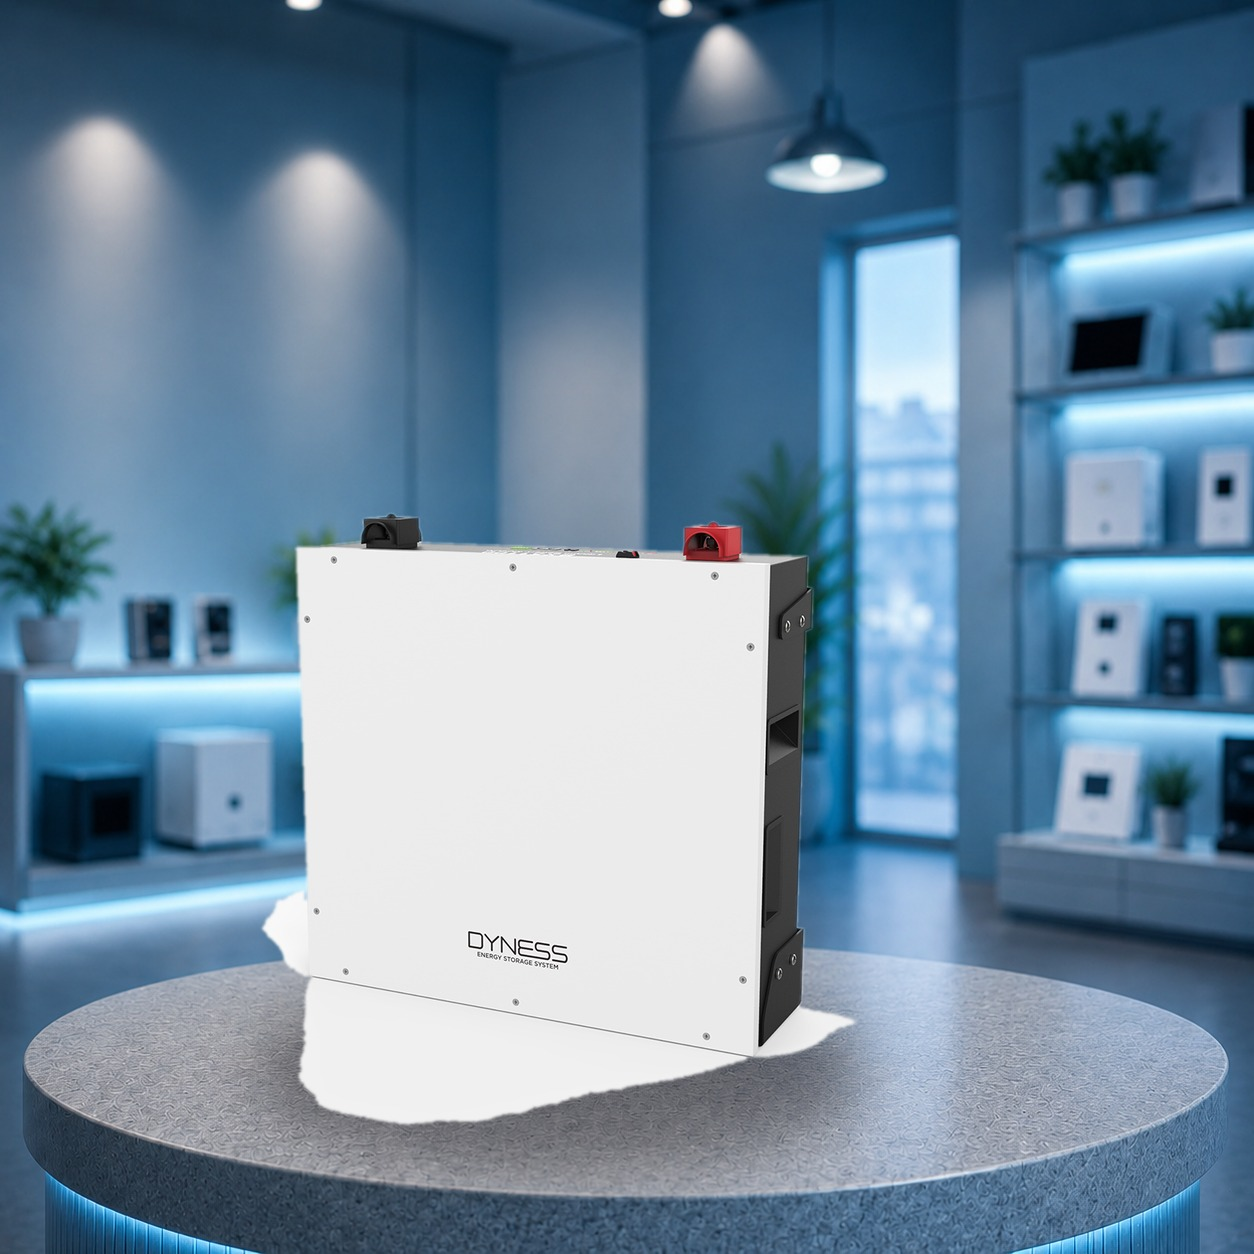
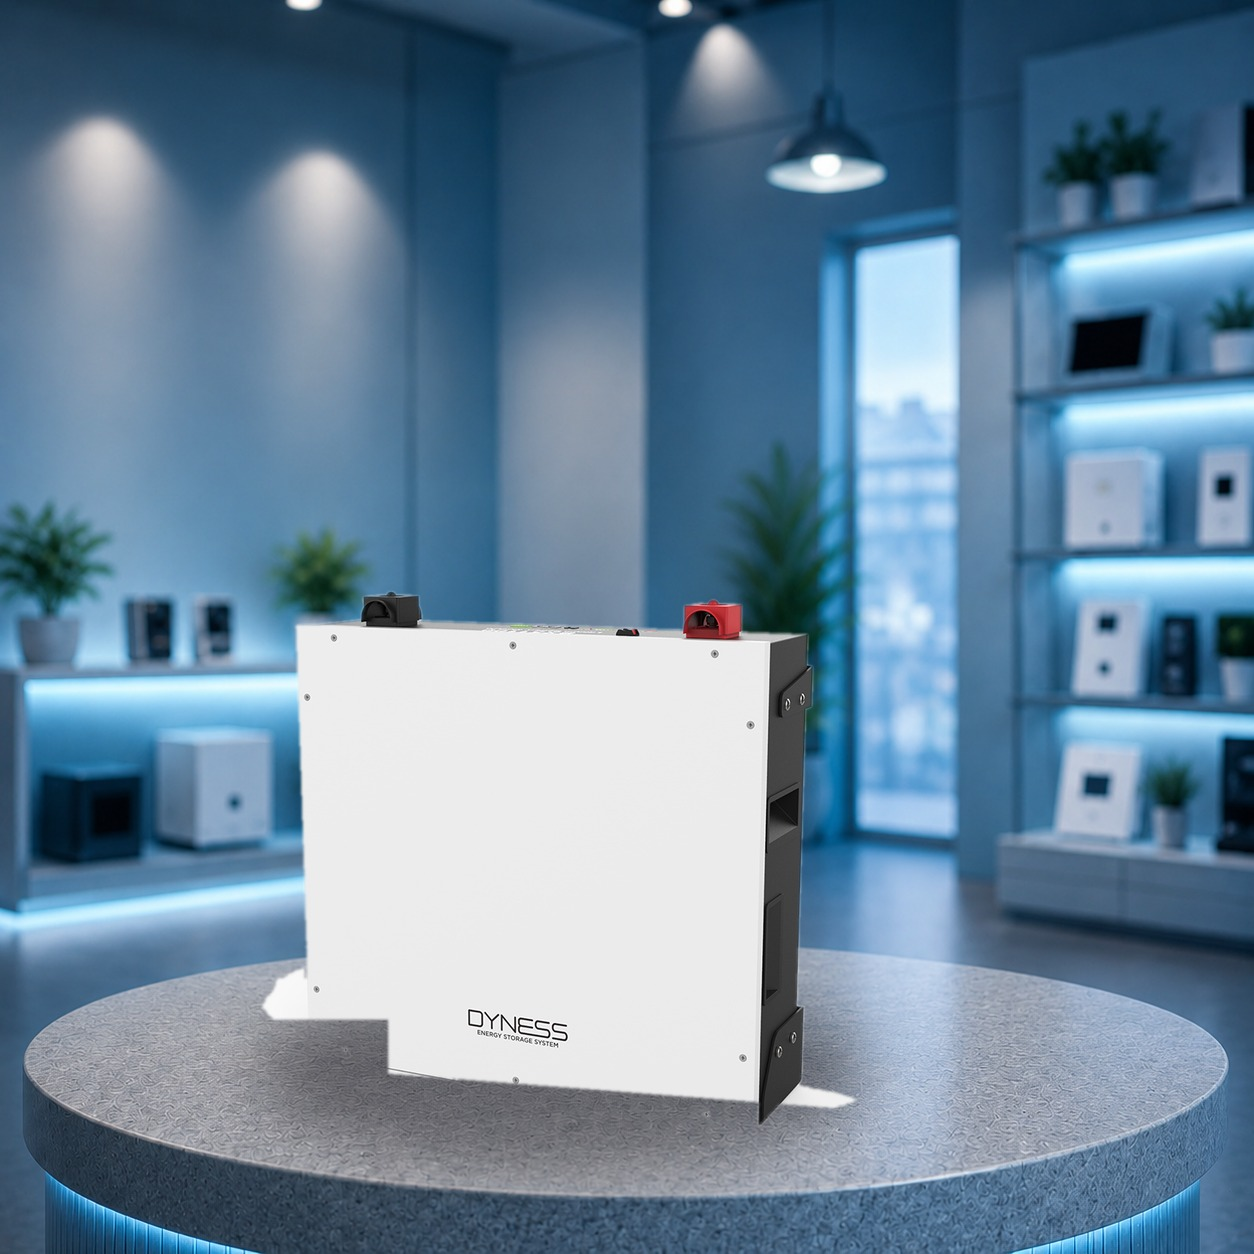
fix: reduce lightbox zoom to 160%, clean up Dyness BX51100 shadow smudge
- Lightbox click-to-zoom was jumping to 280%, way too aggressive; dialed
  back to 160%.
- 150590's shadow blended into the white background with no detectable
  edge for flood-fill to key off, leaving a bright leftover patch under
  the product. Added a hand-tuned cleanup pass (SHADOW_CLEANUP) that
  knocks out bright pixels below the product's real (but visually
  indistinct) bottom edge -- fixes this photo without affecting the
  general pipeline.

Changed region(s): [[0.1866, 0.4043, 0.6842, 0.9019], [0.3732, 0.7464, 0.4665, 0.7775]]

diff --git a/assets/css/style.css b/assets/css/style.css
@@ -1129,7 +1129,7 @@ main { flex: 1; }
 .photo-lightbox__img.is-zoomed {
   max-width: none;
   max-height: none;
-  width: 280%;
+  width: 160%;
   cursor: zoom-out;
 }
 .photo-lightbox__close {

diff --git a/scripts/place_product_on_background.py b/scripts/place_product_on_background.py
@@ -105,7 +105,37 @@ CATEGORY_TO_PROFILE = {
 }
 
 
-def cutout_product(path_or_image, thresh=15):
+# Some photos have a drop shadow that blends into the white background so
+# gradually there's no detectable edge for flood-fill to key off (shadow and
+# panel brightness overlap). For those, hand-drawn cleanup: a diagonal line
+# (x0, y0, x1, y1) marking the object's true bottom edge -- any pixel below
+# it (or inside the optional extra corner box) that's still bright gets
+# knocked out of the mask, regardless of flood-fill threshold. All values
+# are pixel coordinates in the ORIGINAL (uncropped) source photo.
+SHADOW_CLEANUP = {
+    "150590": dict(line=(129, 699, 779, 749), corner_box=(0, 640, 240, 900)),
+}
+
+
+def _apply_shadow_cleanup(img, mask, cleanup):
+    w, h = img.size
+    px = img.load()
+    mpx = mask.load()
+    x0, y0, x1, y1 = cleanup["line"]
+    slope = (y1 - y0) / (x1 - x0)
+    cx0, cy0, cx1, cy1 = cleanup.get("corner_box", (0, 0, 0, 0))
+    top = min(y0, y1, cy0)
+    for y in range(max(0, int(top)), h):
+        for x in range(0, w):
+            below_line = y > y0 + slope * (x - x0)
+            in_corner = cx0 <= x < cx1 and cy0 <= y < cy1
+            if below_line or in_corner:
+                r, g, b = px[x, y]
+                if (r + g + b) / 3 > 200:
+                    mpx[x, y] = 0
+
+
+def cutout_product(path_or_image, thresh=15, shadow_cleanup=None):
     """Return an RGBA cutout tightly cropped to the non-background pixels."""
     if isinstance(path_or_image, Image.Image):
         img = path_or_image.convert("RGB")
@@ -124,6 +154,10 @@ def cutout_product(path_or_image, thresh=15):
 
     mask = Image.new("L", (w, h), 255)
     mask.putdata([0 if p == sentinel else 255 for p in filled.getdata()])
+
+    if shadow_cleanup:
+        _apply_shadow_cleanup(img, mask, shadow_cleanup)
+
     mask = mask.filter(ImageFilter.MinFilter(3))
     mask = mask.filter(ImageFilter.GaussianBlur(1.5))
 
@@ -210,15 +244,16 @@ def process_pipeline(product, profile, out_path):
     if not src:
         print(f"skip {product['id']}: original source not found")
         return False
+    shadow_cleanup = SHADOW_CLEANUP.get(product["id"])
     crop = SOURCE_CROP.get(product["id"])
     if crop:
         img = Image.open(src).convert("RGB")
         w, h = img.size
         x0, y0, x1, y1 = crop
         img = img.crop((int(w * x0), int(h * y0), int(w * x1), int(h * y1)))
-        cutout = cutout_product(img)
+        cutout = cutout_product(img, shadow_cleanup=shadow_cleanup)
     else:
-        cutout = cutout_product(src)
+        cutout = cutout_product(src, shadow_cleanup=shadow_cleanup)
     bg_path = os.path.join(BG_DIR, profile["bg"])
     result = compose(bg_path, cutout, profile)
     result.save(out_path, quality=92)
